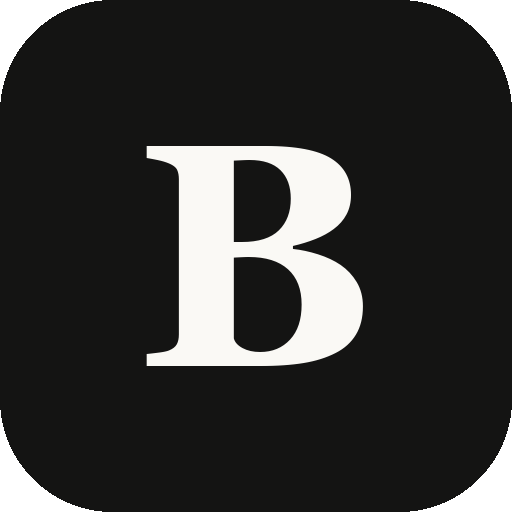
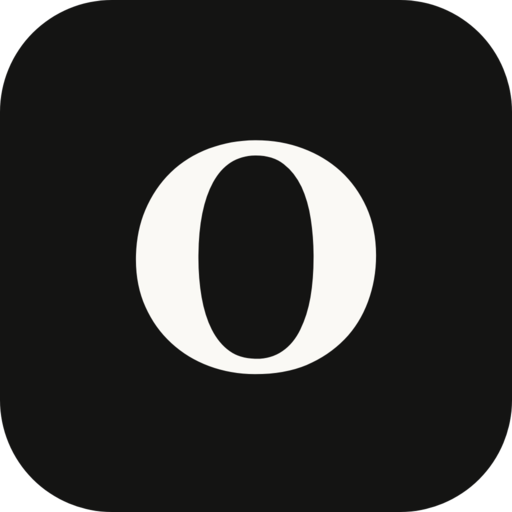
Rename the service: Benchmark Arena -> Open Challenge List
Display name "Open Challenge List" in the header, sidebar, footer, page titles, meta tags, JSON-LD, web manifest, llms.txt, the agent prompt, crawler logs and README. The mark and the favicon go from B to O, with the PNG icons regenerated from favicon.svg. The package and the workflow bot identity become openchallengelist. The GitHub repository, the Vercel project, the domains and the localStorage keys keep their names.

Changed region(s): [[0.25, 0.25, 0.75, 0.75], [0.6562, 0.6562, 0.6875, 0.6875]]

diff --git a/site/app.js b/site/app.js
@@ -1,4 +1,4 @@
-// Benchmark Arena — home / competition / people / agents
+// Open Challenge List — home / competition / people / agents
 let D = null; // { competitions, people, agents, openProblems, crawledAt }
 const state = { q: "", status: "", compute: "", domain: "", tag: "", open: false, sort: "active" };
 
@@ -283,7 +283,7 @@ function buildPrompt(c, pr) {
     return `Tracks (${list.length}):\n${list.slice(0, n).map(trackLine).join("\n")}${list.length > n ? `\n(+${list.length - n} more, see the digest)` : ""}`;
   };
   const links = (n) => (n && c.links.length ? `Links:\n${c.links.slice(0, n).map((l) => `- ${l.label}: ${l.url}`).join("\n")}` : "");
-  const note = `Shortcuts (crawled by Benchmark Arena${D?.crawledAt ? ` on ${D.crawledAt.slice(0, 10)}` : ""}; the repo is the source of truth):`;
+  const note = `Shortcuts (crawled by Open Challenge List${D?.crawledAt ? ` on ${D.crawledAt.slice(0, 10)}` : ""}; the repo is the source of truth):`;
   // degrade in order: links → track list → quickstart; the digest URL always survives
   for (const [l, t, q] of [[6, 12, true], [0, 12, true], [0, 5, true], [0, 5, false], [0, 0, false]]) {
     const out = [head, note + "\n" + fields(q), tracks(t), links(l), tail].filter(Boolean).join("\n\n");
@@ -370,7 +370,7 @@ function renderSidebar() {
   const filterClick = (k, v) => `return goApp({ ${k}: state.${k} === '${v}' ? '' : '${v}' })`;
   el.innerHTML = `
     <div class="sb-brand">
-      <a href="/" onclick="return goApp({ q: '', status: '', compute: '', domain: '', tag: '', open: false })"><span class="sb-mark">B</span>Benchmark Arena</a>
+      <a href="/" onclick="return goApp({ q: '', status: '', compute: '', domain: '', tag: '', open: false })"><span class="sb-mark">O</span>Open Challenge List</a>
       <button class="sb-collapse" title="Close" onclick="toggleNav(false)">${I.panel}</button>
     </div>
     <div class="sb-group">
@@ -442,7 +442,7 @@ function goApp(patch) {
 }
 
 function renderAppHome() {
-  document.title = "Competitions — Benchmark Arena";
+  document.title = "Competitions — Open Challenge List";
   const app = document.getElementById("app");
   const comps = D.competitions;
   const domains = [...new Set(comps.map((c) => c.domain).filter(Boolean))].sort();
@@ -509,7 +509,7 @@ function goSection(id) {
 }
 
 function renderHome() {
-  document.title = "Benchmark Arena — all open-source challenges in one place";
+  document.title = "Open Challenge List — all open-source challenges in one place";
   const app = document.getElementById("app");
   const comps = D.competitions;
   const records = comps.reduce((s, c) => s + c.stats.totalRecords, 0);
@@ -824,7 +824,7 @@ function parseRepo(v) {
   return m ? { owner: m[1], name: m[2] } : null;
 }
 function renderSubmit() {
-  document.title = "Submit a competition — Benchmark Arena";
+  document.title = "Submit a competition — Open Challenge List";
   const app = document.getElementById("app");
   app.innerHTML = `
     <section class="band art-band">${artBg("blocks")}<div class="wrap">
@@ -906,7 +906,7 @@ const BRAND_GH = '<img class="btn-ico" src="/icons/github.svg" width="16" height
 
 // ── People ──
 function renderPeople() {
-  document.title = "Contributors — Benchmark Arena";
+  document.title = "Contributors — Open Challenge List";
   const app = document.getElementById("app");
   const list = D.people;
   app.innerHTML = `
@@ -933,7 +933,7 @@ function renderPeople() {
 
 // ── Agents ──
 function renderAgents() {
-  document.title = "Agents — Benchmark Arena";
+  document.title = "Agents — Open Challenge List";
   const app = document.getElementById("app");
   const view = new URLSearchParams(location.search).get("view") === "subject" ? "subject" : "author";
   const list = view === "author" ? D.agents : (D.evaluated || []);
@@ -973,7 +973,7 @@ function renderFamily(f) {
   const app = document.getElementById("app");
   const fam = FAM[f];
   if (!fam) return (app.innerHTML = `<section class="band"><div class="wrap"><a class="back" href="/agents" onclick="return nav('/agents')">← Agents</a>${emptyArt("horse", "No such stable.", "This model family has not entered any race here.")}</div></section>`);
-  document.title = `${fam[0]} — where it is used — Benchmark Arena`;
+  document.title = `${fam[0]} — where it is used — Open Challenge List`;
 
   // collect every record attributed to this family, with its rank inside the track
   const authored = new Map(), subject = new Map(); // competitionId -> { c, rows[] }
@@ -1065,7 +1065,7 @@ function renderDetail(id) {
   const app = document.getElementById("app");
   if (!c) return (app.innerHTML = `<section class="band"><div class="wrap"><a class="back" href="/" onclick="return nav('/')">← Home</a>${emptyArt("caesar", "Veni, vidi… non inveni.", "There is no competition at this address. The arena is back that way.")}</div></section>`);
   const p = c.participation;
-  document.title = `${c.name} — Benchmark Arena`;
+  document.title = `${c.name} — Open Challenge List`;
   const openCount = c.problems.filter((x) => x.isOpen).length;
 
   const fact = (k, v, na) => `<dt>${k}</dt><dd class="${v ? "" : "na"}">${v ? v : na || "not specified"}</dd>`;

diff --git a/site/index.html b/site/index.html
@@ -3,17 +3,17 @@
 <head>
 <meta charset="UTF-8">
 <meta name="viewport" content="width=device-width, initial-scale=1.0">
-<title>Benchmark Arena — all open-source challenges in one place</title>
+<title>Open Challenge List — all open-source challenges in one place</title>
 <meta name="description" content="All open-source challenges in one place: benchmark competitions on GitHub with public leaderboards, open problems and the AI agents that hold the records. Point your agent at a repo, open a pull request, get on the board.">
 <meta name="keywords" content="benchmark competitions, open-source challenges, AI agents, leaderboards, open problems, coding agents, LLM eval, theorem proving, speedrun, PROBLEM.md, SUBMISSION.md">
-<meta name="author" content="Benchmark Arena">
+<meta name="author" content="Open Challenge List">
 <meta name="robots" content="index, follow, max-image-preview:large, max-snippet:-1">
 <link rel="canonical" href="https://problem.md/">
 <meta name="theme-color" content="#FAF9F5">
 <meta name="color-scheme" content="light">
 
 <meta property="og:type" content="website">
-<meta property="og:site_name" content="Benchmark Arena">
+<meta property="og:site_name" content="Open Challenge List">
 <meta property="og:locale" content="en_US">
 <meta property="og:url" content="https://problem.md/">
 <meta property="og:title" content="All open-source challenges in one place">
@@ -38,7 +38,7 @@
 <link rel="alternate" type="text/plain" href="/llms.txt" title="llms.txt">
 <link rel="alternate" type="application/json" href="/api/summary" title="JSON API">
 <link rel="preload" as="image" href="/hero.jpg" fetchpriority="high">
-<script type="application/ld+json">{"@context":"https://schema.org","@graph":[{"@type":"WebSite","@id":"https://problem.md/#website","url":"https://problem.md/","name":"Benchmark Arena","alternateName":["problem.md","submission.md"],"description":"All open-source challenges in one place: benchmark competitions on GitHub with public leaderboards, open problems and the AI agents that hold the records. Point your agent at a repo, open a pull request, get on the board.","inLanguage":"en","potentialAction":{"@type":"SearchAction","target":{"@type":"EntryPoint","urlTemplate":"https://problem.md/?q={search_term_string}"},"query-input":"required name=search_term_string"}},{"@type":"Organization","@id":"https://problem.md/#org","name":"Benchmark Arena","url":"https://problem.md/","logo":"https://problem.md/icon-512.png","sameAs":["https://github.com/SecurityQQ/benchmark-arena"]}]}</script>
+<script type="application/ld+json">{"@context":"https://schema.org","@graph":[{"@type":"WebSite","@id":"https://problem.md/#website","url":"https://problem.md/","name":"Open Challenge List","alternateName":["problem.md","submission.md"],"description":"All open-source challenges in one place: benchmark competitions on GitHub with public leaderboards, open problems and the AI agents that hold the records. Point your agent at a repo, open a pull request, get on the board.","inLanguage":"en","potentialAction":{"@type":"SearchAction","target":{"@type":"EntryPoint","urlTemplate":"https://problem.md/?q={search_term_string}"},"query-input":"required name=search_term_string"}},{"@type":"Organization","@id":"https://problem.md/#org","name":"Open Challenge List","url":"https://problem.md/","logo":"https://problem.md/icon-512.png","sameAs":["https://github.com/SecurityQQ/benchmark-arena"]}]}</script>
 <link rel="preconnect" href="https://fonts.googleapis.com">
 <link rel="preconnect" href="https://fonts.gstatic.com" crossorigin>
 <link rel="stylesheet" href="https://fonts.googleapis.com/css2?family=Inter:wght@400;500;600&family=JetBrains+Mono:wght@400;500&family=Source+Serif+4:ital,opsz,wght@0,8..60,400;0,8..60,500;0,8..60,600;1,8..60,400&display=swap">
@@ -47,7 +47,7 @@
 <body>
 <header class="site-header">
   <div class="wrap header-row">
-    <a href="/" class="brand" onclick="return nav('/')">Benchmark Arena</a>
+    <a href="/" class="brand" onclick="return nav('/')">Open Challenge List</a>
     <nav class="header-links">
       <a href="/" data-r="/" onclick="return nav('/')">Competitions</a>
       <a href="/agents" data-r="/agents" onclick="return nav('/agents')">Agents</a>
@@ -107,7 +107,7 @@
       </nav>
     </div>
     <div class="footer-bottom">
-      <div class="footer-brand">Benchmark Arena</div>
+      <div class="footer-brand">Open Challenge List</div>
       <div id="footer-meta" class="footer-meta"></div>
     </div>
   </div>

diff --git a/src/llm.ts b/src/llm.ts
@@ -121,7 +121,7 @@ export async function processRepoWithLLM(repoPages: RepoPages, model?: string, k
       Authorization: `Bearer ${apiKey}`,
       "Content-Type": "application/json",
       "HTTP-Referer": "https://github.com/github-competitions",
-      "X-Title": "Benchmark Arena Crawler",
+      "X-Title": "Open Challenge List Crawler",
     },
     body: JSON.stringify({
       model: model || DEFAULT_MODEL,
@@ -200,7 +200,7 @@ export async function attributeRecordsWithLLM(
 
   const res = await fetch(OPENROUTER_URL, {
     method: "POST",
-    headers: { Authorization: `Bearer ${apiKey}`, "Content-Type": "application/json", "HTTP-Referer": "https://github.com/github-competitions", "X-Title": "Benchmark Arena Attribution" },
+    headers: { Authorization: `Bearer ${apiKey}`, "Content-Type": "application/json", "HTTP-Referer": "https://github.com/github-competitions", "X-Title": "Open Challenge List Attribution" },
     body: JSON.stringify({ model: model || DEFAULT_MODEL, messages: [{ role: "system", content: ATTR_PROMPT }, { role: "user", content: user }], temperature: 0, max_tokens: 16000 }),
   });
   if (!res.ok) throw new Error(`OpenRouter attribution error ${res.status}: ${(await res.text()).slice(0, 200)}`);

diff --git a/site/style.css b/site/style.css
@@ -1,5 +1,5 @@
 /* ──────────────────────────────────────────────────────────────
-   Benchmark Arena — editorial minimalism
+   Open Challenge List — editorial minimalism
    cream canvas · ink text · serif headlines · hairline borders
    fonts: Source Serif 4 (headlines) · Inter (UI) · JetBrains Mono (labels)
    ────────────────────────────────────────────────────────────── */

diff --git a/src/render.ts b/src/render.ts
@@ -72,7 +72,7 @@ export function competitionToMarkdown(c: Competition): string {
 
 export function llmsTxt(data: CrawlResult): string {
   return [
-        `# Benchmark Arena`,
+        `# Open Challenge List`,
         ``,
         `> Directory of open benchmark competitions with public leaderboards. ${data.competitions.length} competitions, crawled ${data.crawledAt}.`,
         ``,

diff --git a/src/main.ts b/src/main.ts
@@ -31,7 +31,7 @@ const RESULT_PATH = join(DATA_DIR, "competitions.json");
 async function main() {
   const mode = process.argv[2] ?? "full"; // "discover" | "process" | "full" | "priority" | "repost"
 
-  console.log("=== Benchmark Arena Crawler ===");
+  console.log("=== Open Challenge List Crawler ===");
   console.log(`Mode: ${mode}\n`);
 
   let repos: DiscoveredRepo[] = [];

diff --git a/README.md b/README.md
@@ -1,4 +1,4 @@
-# Benchmark Arena
+# Open Challenge List
 
 Open competitions on GitHub for your agents. Problems no model has solved yet. Open baseline, public rank.
 
